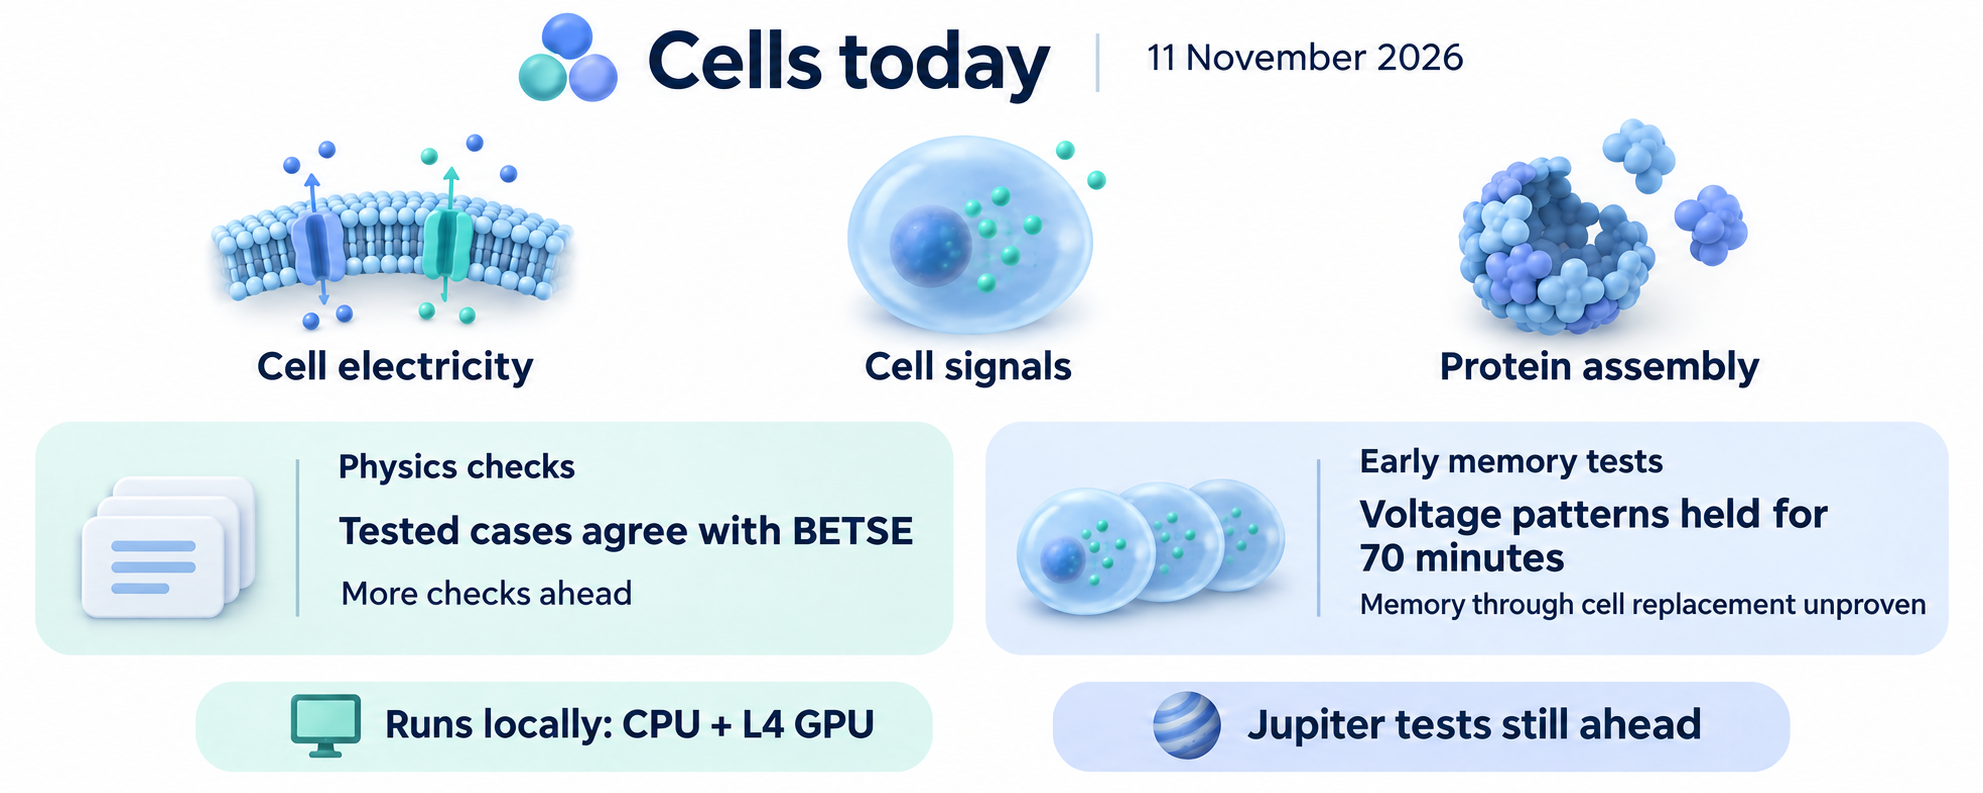
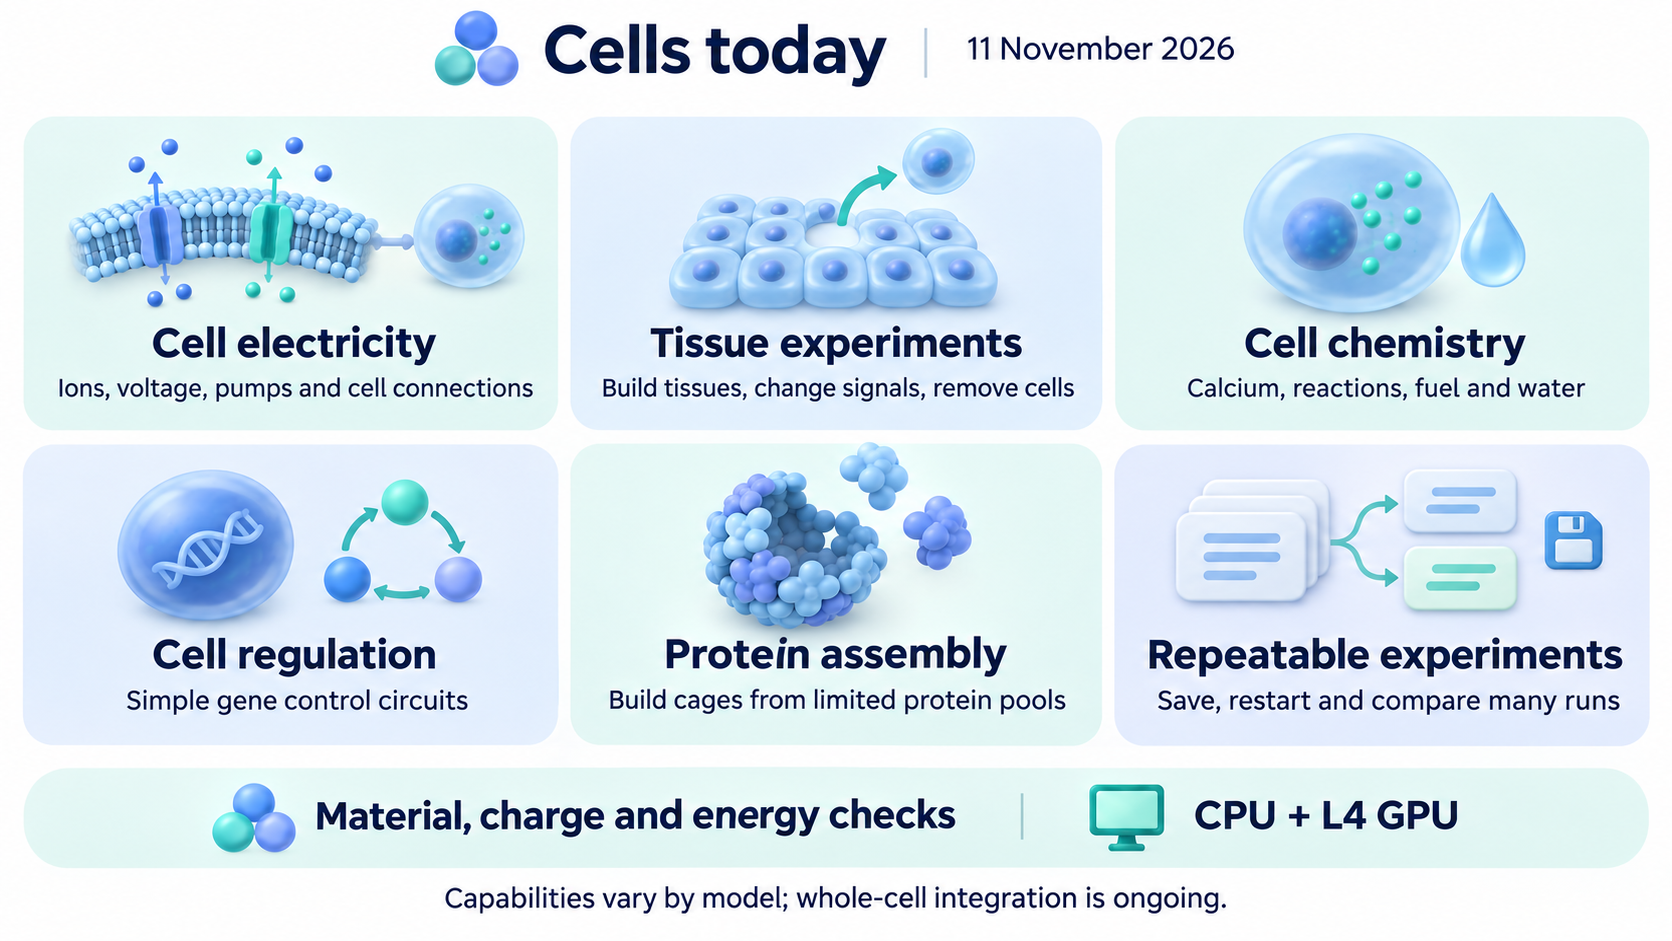
Updated

diff --git a/README.md b/README.md
@@ -64,7 +64,7 @@ Plain-language summary. Details, numbers and evidence are in
 
 ## What Cells can do (as of 11 November 2026)
 
-![Cells today, 11 November 2026: cell electricity, cell signals and protein assembly. Tested cases agree with BETSE, with more checks ahead. In early tests, voltage patterns held for 70 minutes; memory through cell replacement remains unproven. Runs locally on CPU and L4 GPU; Jupiter tests are still ahead.](docs/assets/cells-current.png)
+![Cells today, 11 November 2026: cell electricity; tissue preparation and interventions; calcium, reactions, fuel and water; simple gene control circuits; protein cage assembly; and saving, restarting and comparing runs. Material, charge and energy checks, with CPU and L4 GPU execution. Capabilities vary by model; whole-cell integration is ongoing.](docs/assets/cells-current.png)
 
 - **Electrical cells and tissues:**
   - ion transport, membrane voltage and pumps;
@@ -85,6 +85,13 @@ Plain-language summary. Details, numbers and evidence are in
 
 Each capability's scope and limits are in its model guide; see the
 [documentation index](docs/README.md).
+
+## Roadmap
+
+![Cells roadmap, 11 November 2026: water and cell size, cell replacement and tissue mechanics are in development. Next tests cover memory through cell replacement and more physics comparisons before Jupiter. Longer-term goals are integrated whole-cell models, organs and organ systems.](docs/assets/cells-roadmap.png)
+
+See the [roadmap](docs/ROADMAP.md) for priorities and [progress](PROGRESS.md)
+for current results.
 
 ## References and calibration
 

diff --git a/docs/README.md b/docs/README.md
@@ -195,7 +195,7 @@ for source roles, existing evidence and the path to independent experimental tes
 
 ### Current functionality
 
-![Cells today, 11 November 2026: cell electricity, cell signals and protein assembly. Tested cases agree with BETSE, with more checks ahead. In early tests, voltage patterns held for 70 minutes; memory through cell replacement remains unproven. Runs locally on CPU and L4 GPU; Jupiter tests are still ahead.](assets/cells-current.png)
+![Cells today, 11 November 2026: cell electricity; tissue preparation and interventions; calcium, reactions, fuel and water; simple gene control circuits; protein cage assembly; and saving, restarting and comparing runs. Material, charge and energy checks, with CPU and L4 GPU execution. Capabilities vary by model; whole-cell integration is ongoing.](assets/cells-current.png)
 
 - **Electrical cells and tissues:** ion transport, membrane voltage, pumps,
   channels, gap junctions and extracellular fields in selected model families.
